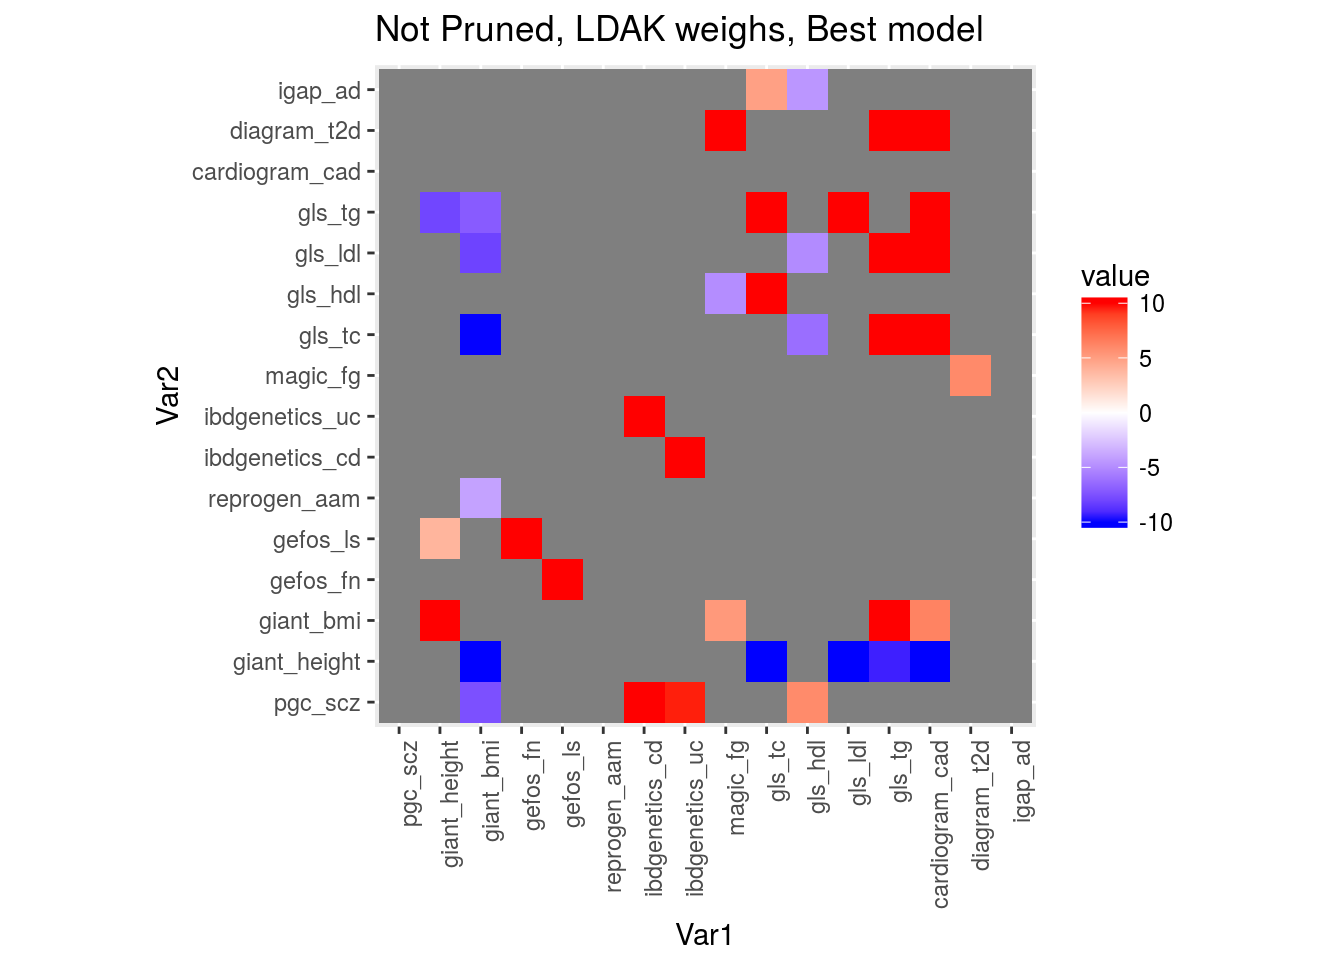
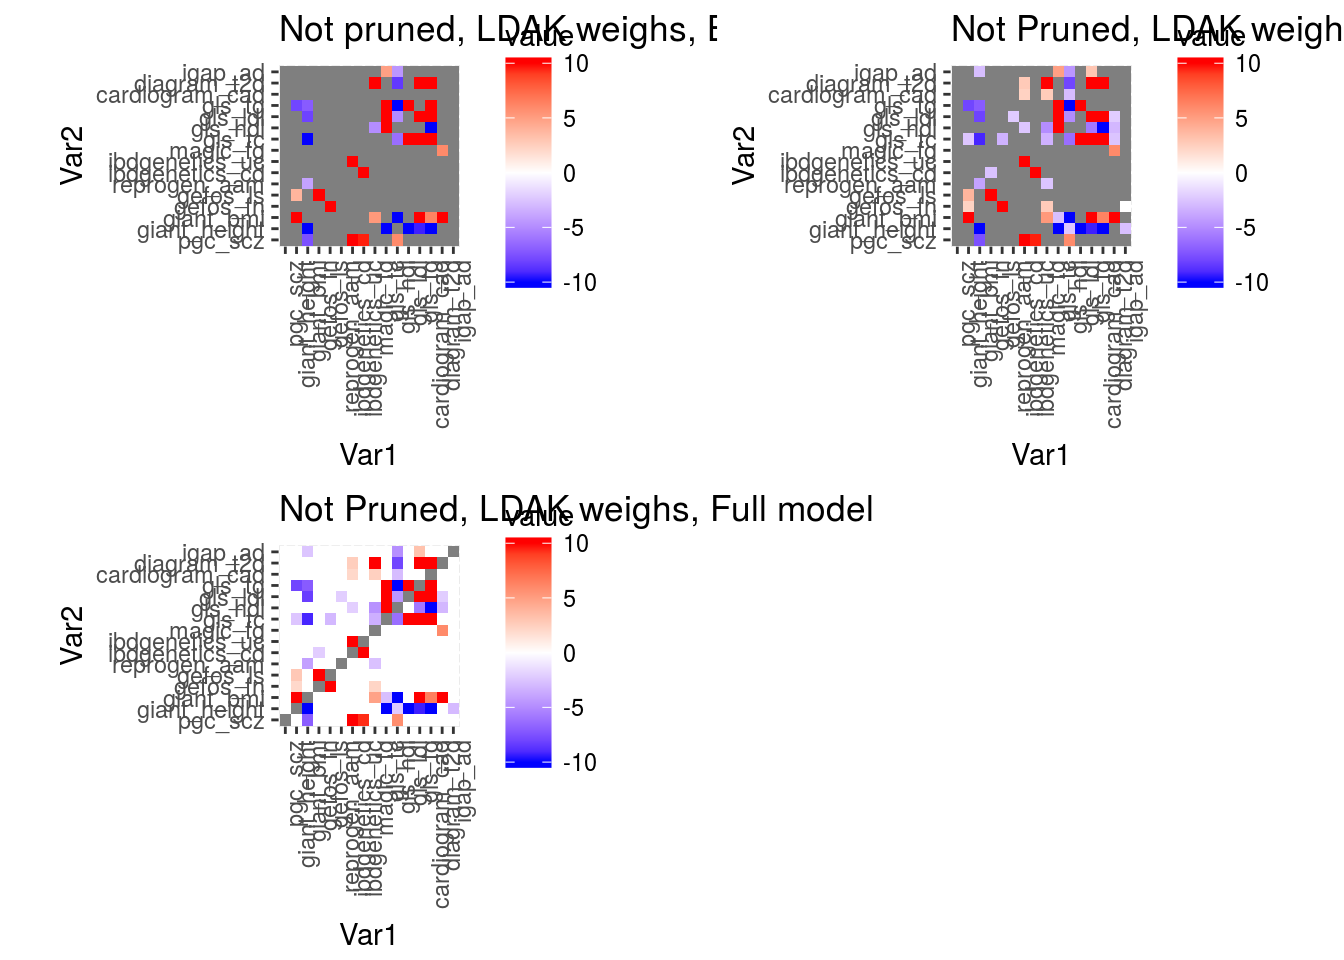
update gwas_ss -- add joint prior

diff --git a/docs/gwas_ss.html b/docs/gwas_ss.html
@@ -322,15 +322,23 @@ div.tocify {
 </div>
 <div id="results-on-pruned-data-set" class="section level2">
 <h2>Results on pruned data set</h2>
-<p>Effect sizes in the best fitting model in data pruned for LD at a theshold of 0.1 and with LDAK weights: <img src="gwas_ss_files/figure-html/unnamed-chunk-1-1.png" width="672" /></p>
-<p>Effect sizes in the full model in data pruned for LD at a theshold of 0.1 and with LDAK weights:: <img src="gwas_ss_files/figure-html/unnamed-chunk-2-1.png" width="672" /></p>
+<p>Effect sizes; data pruned for LD at a theshold of 0.1 and with LDAK weights: <img src="gwas_ss_files/figure-html/unnamed-chunk-1-1.png" width="672" /><img src="gwas_ss_files/figure-html/unnamed-chunk-1-2.png" width="672" /></p>
+<p><img src="gwas_ss_files/figure-html/unnamed-chunk-3-1.png" width="672" /><img src="gwas_ss_files/figure-html/unnamed-chunk-3-2.png" width="672" /></p>
 <p>A handmade list of differences from Pickerell et al:</p>
 <table>
+<colgroup>
+<col width="10%" />
+<col width="11%" />
+<col width="28%" />
+<col width="29%" />
+<col width="20%" />
+</colgroup>
 <thead>
 <tr class="header">
 <th>Trait 1</th>
 <th>Trait 2</th>
-<th>Best Model</th>
+<th>Best BIC (Indep Prior)</th>
+<th>Best BIC (Joint Prior)</th>
 <th>Pickerell et al</th>
 </tr>
 </thead>
@@ -339,59 +347,83 @@ div.tocify {
 <td>scz</td>
 <td>bmi</td>
 <td>-</td>
+<td>-</td>
 <td>0</td>
 </tr>
 <tr class="even">
 <td>height</td>
 <td>ad</td>
 <td>0</td>
+<td>0</td>
 <td>-</td>
 </tr>
 <tr class="odd">
+<td>height</td>
+<td>aam</td>
+<td>0</td>
+<td>0</td>
+<td>+</td>
+</tr>
+<tr class="even">
 <td>bmi</td>
 <td>height</td>
 <td>+</td>
 <td>0</td>
-</tr>
-<tr class="even">
-<td>bmi</td>
-<td>cad</td>
-<td>+</td>
 <td>0</td>
 </tr>
 <tr class="odd">
 <td>bmi</td>
+<td>cad</td>
+<td>+</td>
+<td>0</td>
+<td>0</td>
+</tr>
+<tr class="even">
+<td>bmi</td>
 <td>aam</td>
+<td>0</td>
 <td>0</td>
 <td>-</td>
 </tr>
-<tr class="even">
+<tr class="odd">
 <td>fn</td>
 <td>t2d</td>
 <td>0</td>
+<td>0</td>
 <td>+</td>
 </tr>
-<tr class="odd">
+<tr class="even">
 <td>ls</td>
 <td>height</td>
 <td>+</td>
 <td>0</td>
+<td>0</td>
+</tr>
+<tr class="odd">
+<td>aam</td>
+<td>bmi</td>
+<td>-</td>
+<td>0</td>
+<td>-</td>
 </tr>
 <tr class="even">
 <td>aam</td>
 <td>hdl</td>
 <td>0</td>
+<td>0</td>
 <td>+</td>
 </tr>
 <tr class="odd">
 <td>aam</td>
 <td>ls</td>
+<td>0</td>
 <td>0</td>
 <td>-</td>
 </tr>
 <tr class="even">
 <td>aam</td>
 <td>height</td>
+<td>0</td>
 <td>0</td>
 <td>+</td>
 </tr>
@@ -399,102 +431,126 @@ div.tocify {
 <td>aam</td>
 <td>cd</td>
 <td>0</td>
+<td>0</td>
 <td>+</td>
 </tr>
 <tr class="even">
 <td>cd</td>
 <td>ad</td>
 <td>0</td>
+<td>0</td>
 <td>-</td>
 </tr>
 <tr class="odd">
+<td>fg</td>
+<td>t2d</td>
+<td>+</td>
+<td>0</td>
+<td>+</td>
+</tr>
+<tr class="even">
 <td>tc</td>
 <td>bmi</td>
 <td>-</td>
 <td>0</td>
+<td>0</td>
 </tr>
-<tr class="even">
+<tr class="odd">
 <td>tc</td>
 <td>hdl</td>
 <td>-</td>
 <td>0</td>
+<td>0</td>
+</tr>
+<tr class="even">
+<td>tc</td>
+<td>cad</td>
+<td>+</td>
+<td>0</td>
+<td>+</td>
 </tr>
 <tr class="odd">
 <td>tc</td>
 <td>ldl</td>
 <td>0</td>
 <td>+</td>
-</tr>
-<tr class="even">
-<td>tc</td>
-<td>aam</td>
-<td>0</td>
-<td>+</td>
-</tr>
-<tr class="odd">
-<td>hdl</td>
-<td>aam</td>
-<td>0</td>
 <td>+</td>
 </tr>
 <tr class="even">
 <td>hdl</td>
 <td>cad</td>
 <td>-</td>
+<td>-</td>
 <td>0</td>
 </tr>
 <tr class="odd">
+<td>ldl</td>
+<td>bmi</td>
+<td>-</td>
+<td>0</td>
+<td>-</td>
+</tr>
+<tr class="even">
 <td>ldl</td>
 <td>hdl</td>
 <td>-</td>
 <td>0</td>
+<td>0</td>
 </tr>
-<tr class="even">
+<tr class="odd">
 <td>ldl</td>
 <td>tg</td>
 <td>0</td>
+<td>0</td>
 <td>+</td>
 </tr>
-<tr class="odd">
+<tr class="even">
 <td>tg</td>
 <td>height</td>
 <td>-</td>
 <td>0</td>
+<td>0</td>
 </tr>
-<tr class="even">
+<tr class="odd">
 <td>tg</td>
 <td>bmi</td>
 <td>-</td>
 <td>0</td>
+<td>0</td>
 </tr>
-<tr class="odd">
+<tr class="even">
 <td>t2d</td>
 <td>hdl</td>
 <td>-</td>
 <td>0</td>
+<td>0</td>
 </tr>
-<tr class="even">
+<tr class="odd">
 <td>t2d</td>
 <td>cad</td>
 <td>+</td>
 <td>0</td>
-</tr>
-<tr class="odd">
-<td>ad</td>
-<td>tc</td>
-<td>+</td>
 <td>0</td>
 </tr>
 <tr class="even">
 <td>ad</td>
-<td>hdl</td>
-<td>-</td>
+<td>tc</td>
+<td>+</td>
+<td>0</td>
 <td>0</td>
 </tr>
 <tr class="odd">
 <td>ad</td>
+<td>hdl</td>
+<td>-</td>
+<td>0</td>
+<td>0</td>
+</tr>
+<tr class="even">
+<td>ad</td>
 <td>tg</td>
 <td>+</td>
+<td>0</td>
 <td>0</td>
 </tr>
 </tbody>
@@ -502,9 +558,7 @@ div.tocify {
 </div>
 <div id="results-using-all-1.7-million-snps" class="section level2">
 <h2>Results using all 1.7 million SNPs</h2>
-<p>Effect sizes in the best fitting model in data with no LD pruning and with LDAK weights: <img src="gwas_ss_files/figure-html/unnamed-chunk-4-1.png" width="672" /></p>
-<p><img src="gwas_ss_files/figure-html/unnamed-chunk-5-1.png" width="672" /></p>
-<p>Difference in models: <img src="gwas_ss_files/figure-html/unnamed-chunk-6-1.png" width="672" /><img src="gwas_ss_files/figure-html/unnamed-chunk-6-2.png" width="672" /><img src="gwas_ss_files/figure-html/unnamed-chunk-6-3.png" width="672" /></p>
+<p><img src="gwas_ss_files/figure-html/unnamed-chunk-4-1.png" width="672" /></p>
 </div>
 
 <hr>
